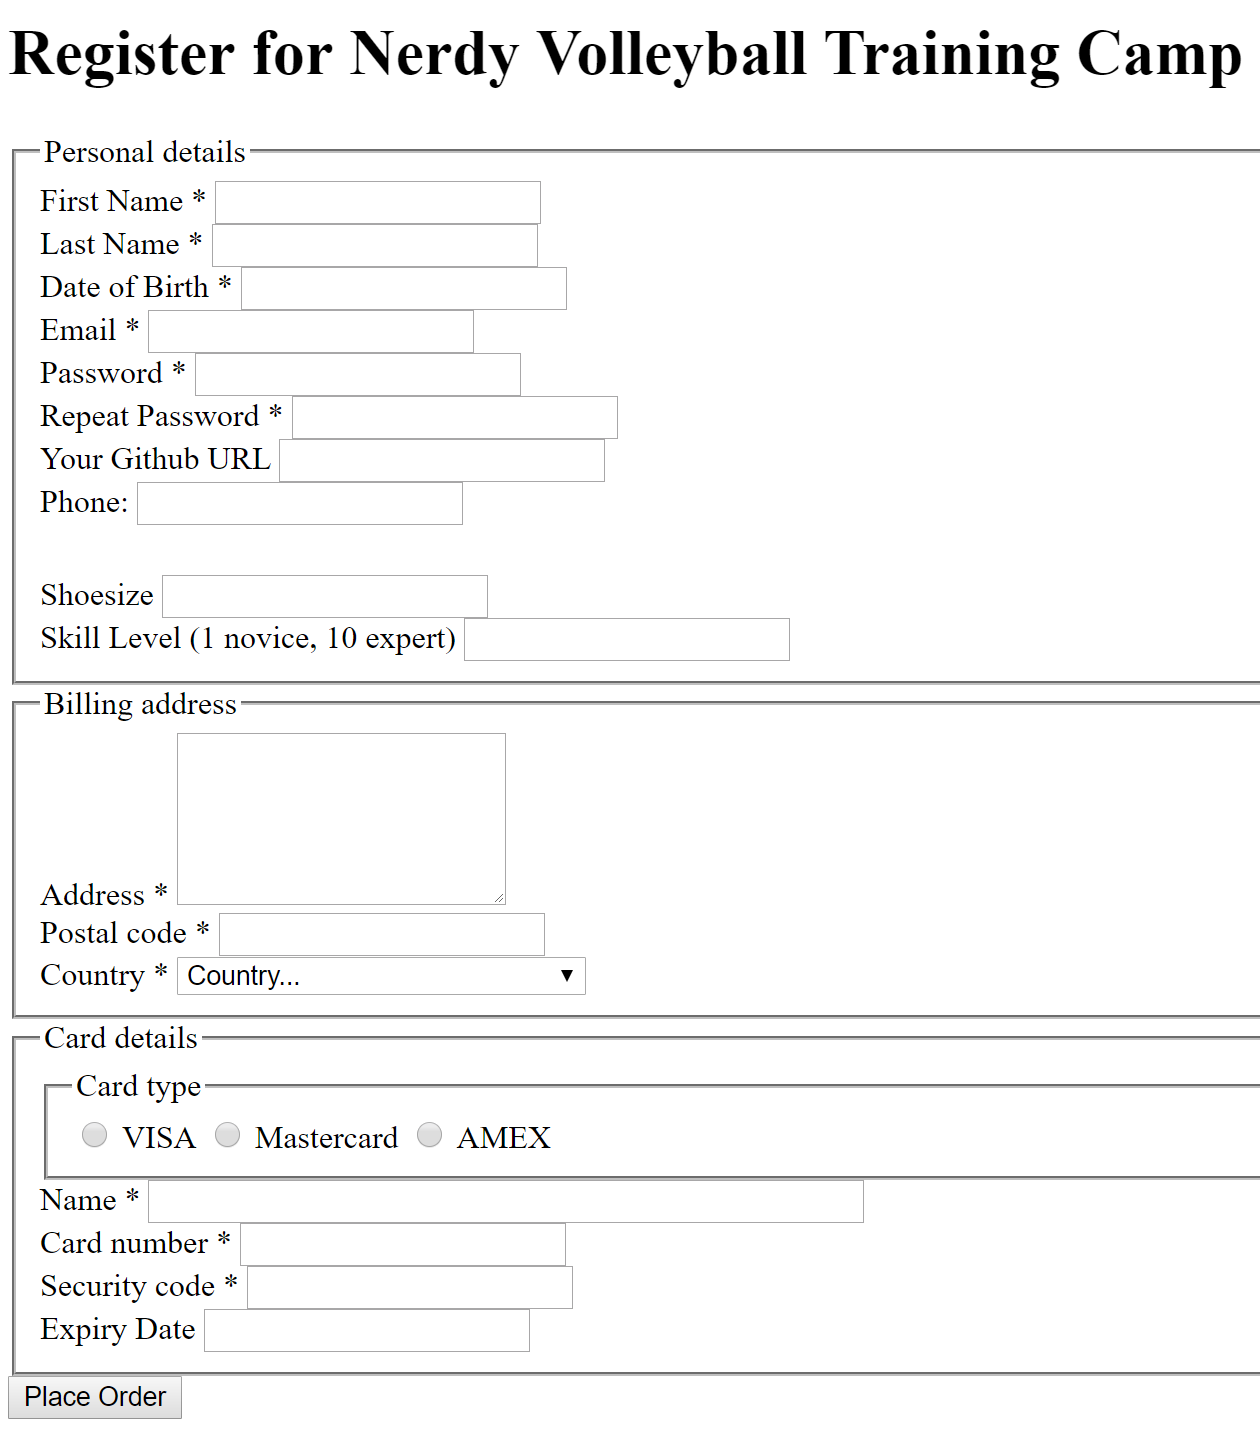
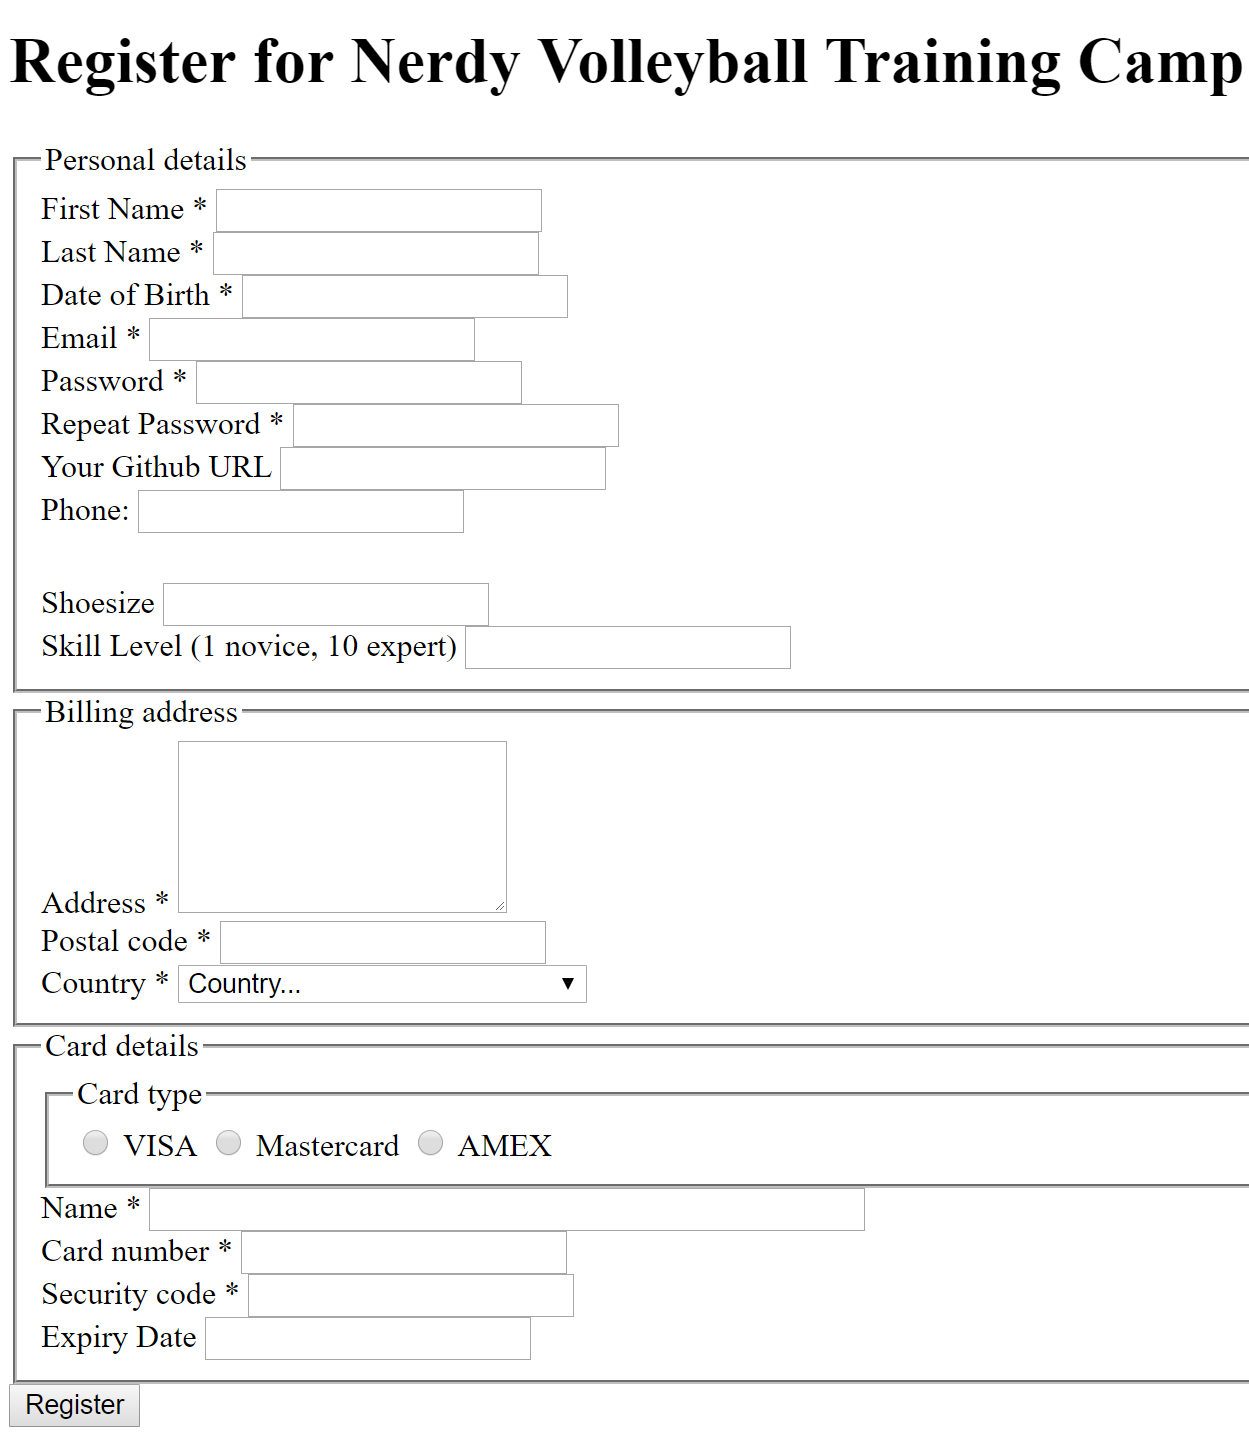
udated form ex readme

diff --git a/Labs/Ch03A-HTML/forms/solution/formVolleyballCamp.html b/Labs/Ch03A-HTML/forms/solution/formVolleyballCamp.html
@@ -373,7 +373,7 @@
 			</div>
 		</fieldset>
 		<div>
-			<button type="submit">Place Order</button>
+			<input type="submit" value="Register">
 		</div>
 
 	</form>

diff --git a/Labs/Ch03A-HTML/forms/README.md b/Labs/Ch03A-HTML/forms/README.md
@@ -8,14 +8,16 @@
  
 1. In your `/WIP/html` add a file `vball-register.html`.
 
-1. Open the image vball-form.png
+1. Open the image `vball-form.png`
 
 1. Recreate this rendered form using HTML.
     * Use fieldsets around each section with a legend as the first child element
     * Ensure each control has a label, name and id value
     * Don't worry too much about formatting, you can surround labels and controls with div for now
 
-1. Once it looks similar, mark your work as complete
+1. Choose an element and add the attribute `title` with a value that describes the field - you can then hover over this in the browser for a tool tip type display.
+
+1. Mark your work as complete
 
 ## Bonus
 
